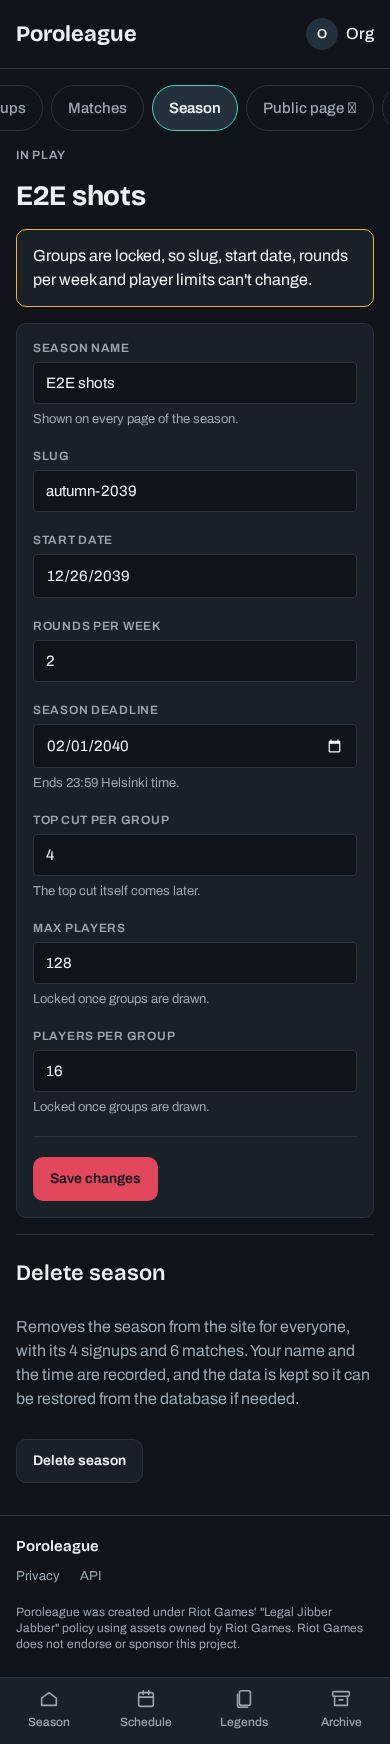
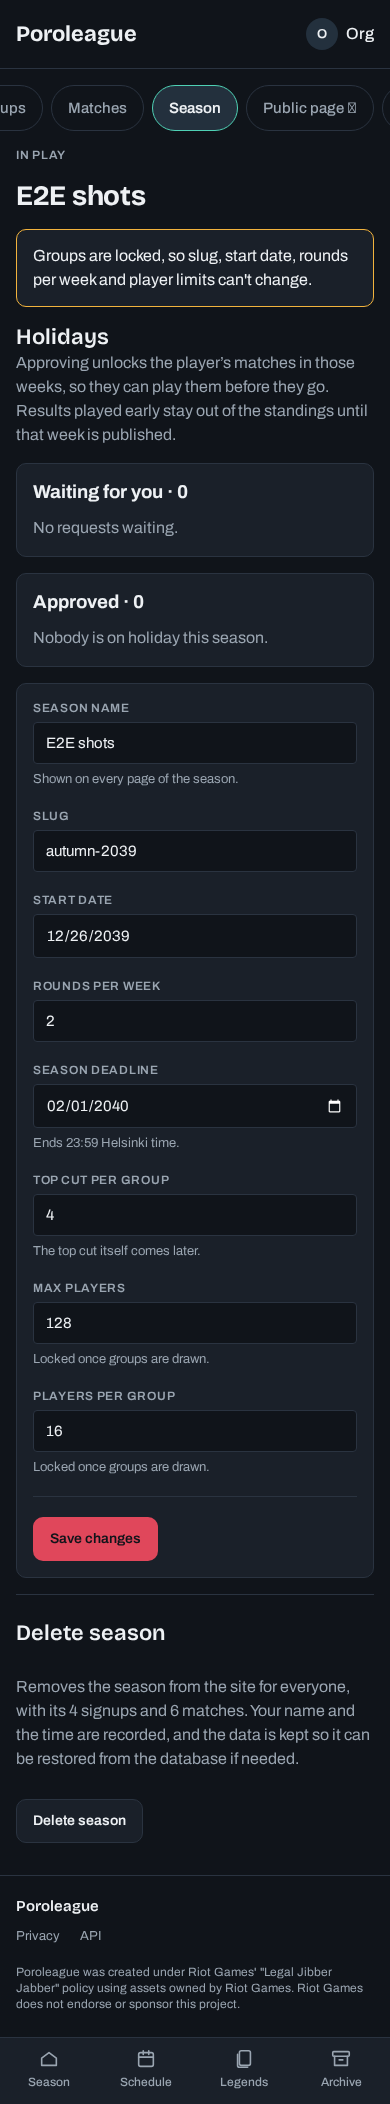
test(shots): organizer Holidays section

diff --git a/shots/holiday.spec.ts b/shots/holiday.spec.ts
@@ -1,7 +1,7 @@
-// Holiday mode: a player's requests.
+// Holiday mode: a player's requests and the organizer's Holidays section.
 import { test } from '@playwright/test';
 import { freezeTimes, removeSeason, seedHoliday, seedSeason } from '../e2e/db.ts';
-import { SEASONS, player } from '../e2e/fixtures.ts';
+import { ORGANIZER as org, SEASONS, player } from '../e2e/fixtures.ts';
 import { NOW, day } from './now.ts';
 import { shot } from './shot.ts';
 
@@ -13,7 +13,9 @@ test.afterAll(() => removeSeason('shotsHoliday'));
 // Two rounds a week: week 1 (rounds 1–2) is published, week 2 (round 3) runs day 4 to day 10.
 test('holidays', async ({ browser }) => {
 	seedSeason('shotsHoliday', { publishedRound: 2, startDate: day(-3), deadline: day(20) });
+	seedHoliday('shotsHoliday', 1, day(-1), day(6), 'approved');
 	seedHoliday('shotsHoliday', 2, day(5), day(6));
 	freezeTimes(NOW);
 	await shot(browser, 'player-holiday-pending', `${s}/players/${p2}`, p2);
+	await shot(browser, 'org-season-holidays', `${s}/admin/season`, org);
 });
